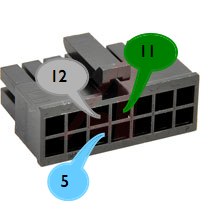
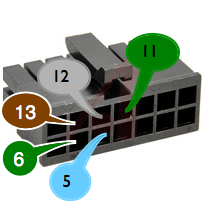
GPIO outputs, new molex

diff --git a/manual/GPIO.md b/manual/GPIO.md
@@ -1,6 +1,6 @@
 # GPIO {#gpio}
 
-Greenwich devices have up to five user-programmable [GPIO](http://en.wikipedia.org/wiki/General-purpose_input/output) pins, depending on the model, but at least three are available on the entry-level "Java" version:
+Greenwich devices have up to five user-programmable [GPIO](http://en.wikipedia.org/wiki/General-purpose_input/output) pins, depending on the model, but at least three inputs and two outputs (open collectors) are available on the entry-level "Java" version:
 
 This is the 14pin Molex connector seen from the back (i.e. plugged into `S1` on the Greenwich)
 
@@ -10,7 +10,9 @@ This is the 14pin Molex connector seen from the back (i.e. plugged into `S1` on 
 * `GPIO3`, Pin S1-12, grey cable, topic name: `/gpio/3`
 * `GPIO7`, Pin S1-11, green _ignition_ cable (normally connected to fuse), topic name: `/gpio/7`
 
-Each input has an allowed voltage range of +- VIN (9-32V) with LOW being recognized at `<0.5V` and HIGH at `>3.0V`.
+## Inputs
+
+Each input (GPIO `1`, `3`, `7`) has an allowed voltage range of +- VIN (9-32V) with LOW being recognized at `<0.5V` and HIGH at `>3.0V`.
 
 The OwnTracks-Edition of the software surfaces the state (HIGH/LOW) of these pins into MQTT publishes by publishing a payload of `0` or `1`, respectively, depending on the pin's state. One publish occurs per pin as soon as its state changes. Note, that the internal state is inverted compared to the external level; this is supposed to be typical for embedded devices. In other words, the published payload is `0` for HIGH and `1` for LOW.
 
@@ -47,6 +49,12 @@ void loop() {
 
 ## Outputs
 
+The two outputs (open collectors) may draw a maximum current of 300mA (anything above that
+may destroy your equipment!).
+
+* `GPIO10`, Pin S1-13, brown (shown with white border), open collector, mapped onto command `out 1`
+* `GPIO9`, Pin S1-6, green (shown with white border), open collector, mapped onto command `out 2`
+
 To switch a GPIO output, send a command with a payload consisting of the verb (`out`)
 followed by a space and the GPIO output number (`1` or `2`), followed by the desired
 state (`0` or `1`). `1` means collector open, so load is switched on.
@@ -54,5 +62,7 @@ state (`0` or `1`). `1` means collector open, so load is switched on.
 ```
 mosquitto_pub -t owntracks/acme/van17/cmd -m "out 1 0"
 ```
+
+This would open pin S1-13 (brown).
 
 \newpage

diff --git a/manual/_settings.md b/manual/_settings.md
@@ -86,7 +86,7 @@ MQTT topics are used as follows: `publish` specifies a top-level topic branch to
 +-----------------+----------------+-----------------+--------------+---------------------------+
 | `subscription`  | ../cmd         |                 | reboot       | Device listens for commands at this topic |
 +-----------------+----------------+-----------------+--------------+---------------------------+
-| `subscriptionQos` | 1              | 0..2            | reboot       | QoS for `subscription`         |
+| `subscriptionQos` | 2              | 0..2            | reboot       | QoS for `subscription`         |
 +-----------------+----------------+-----------------+--------------+---------------------------+
 | `tid`           | <xx>           | alnum           | next pub     | Short tracker-ID, typically two letters, which defaults to last two characters of `clientID` |
 +-----------------+----------------+-----------------+--------------+---------------------------+
